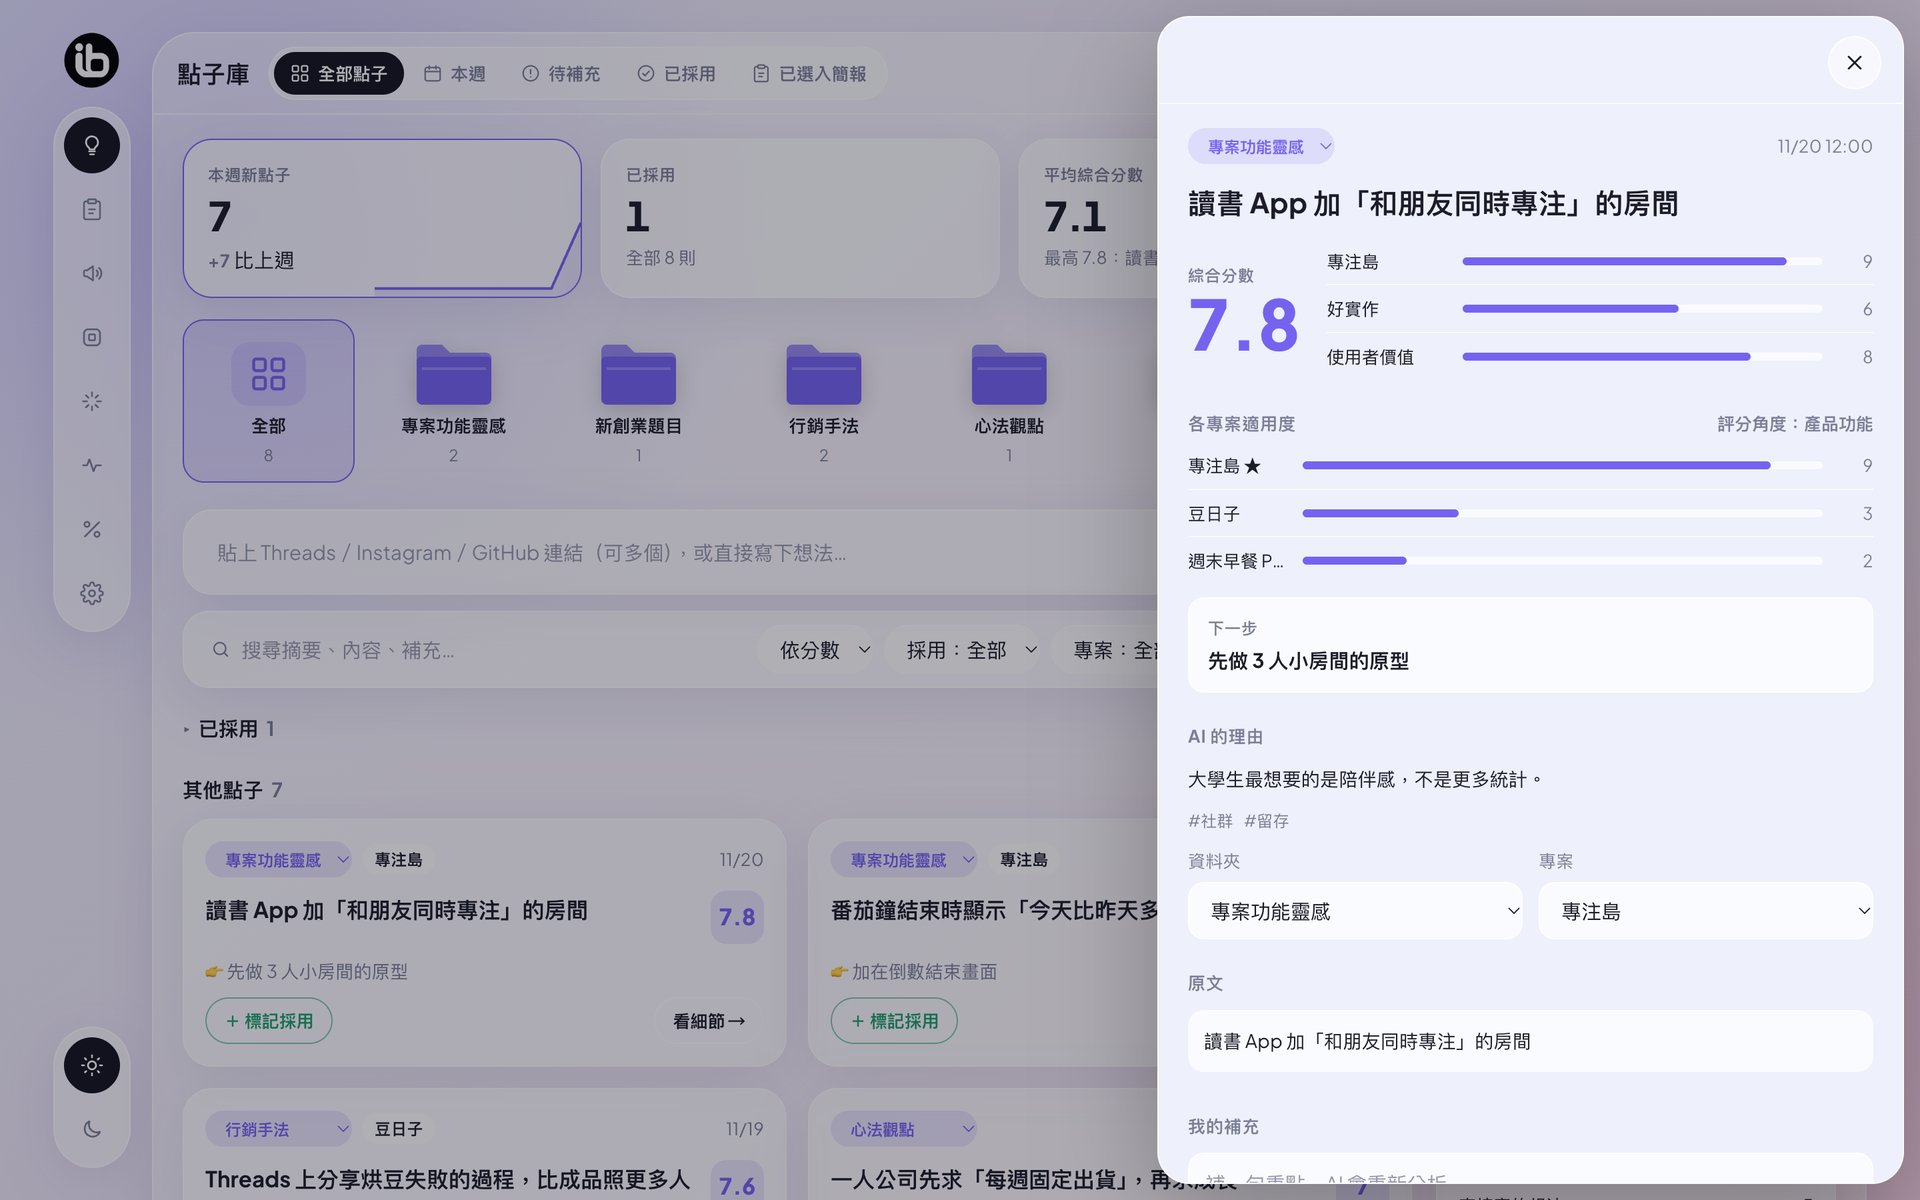
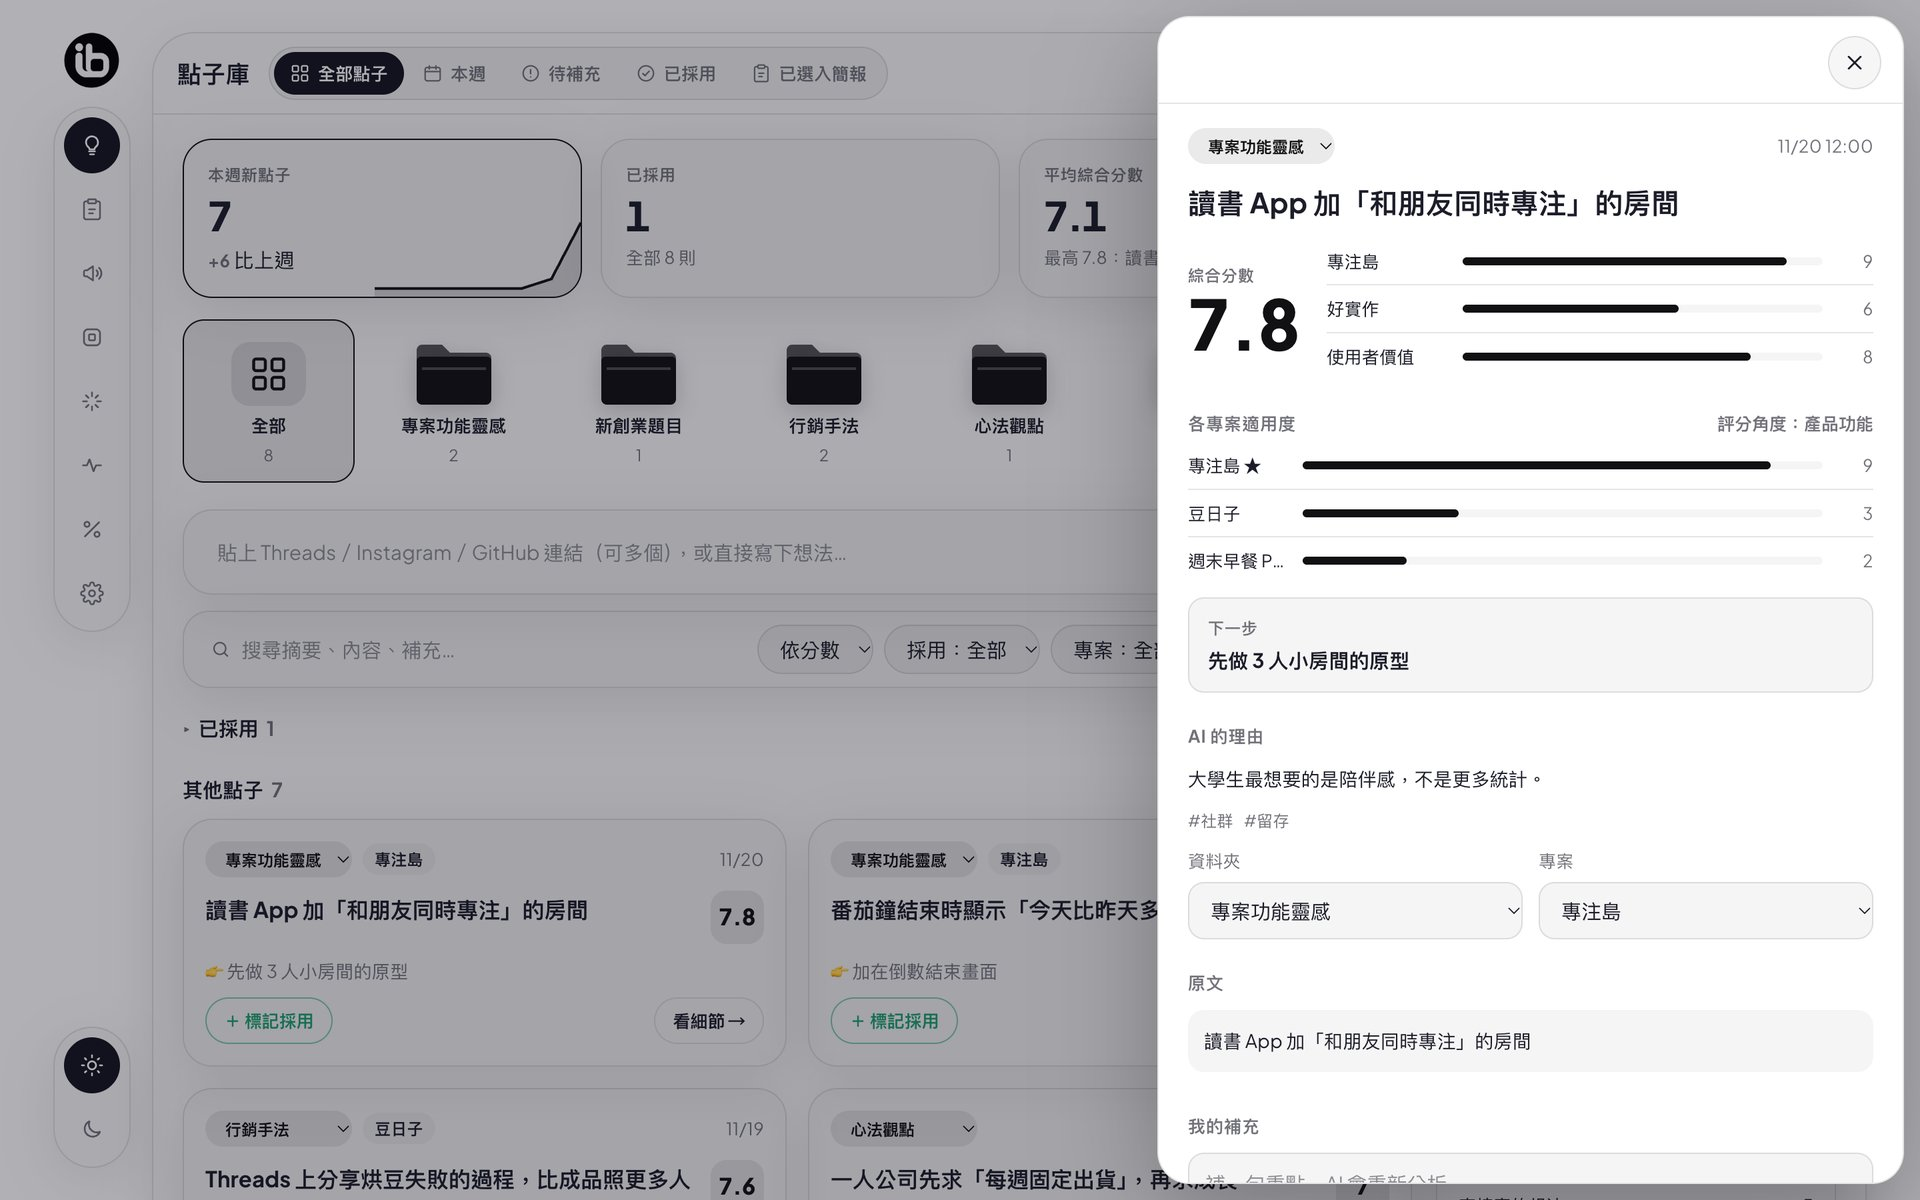
說明與 README 的截圖換成黑白主題、網站圖示改成白底黑字

diff --git a/README.md b/README.md
@@ -40,7 +40,7 @@
 其他：
 - **Telegram Bot**：存點子、回覆補充、改資料夾、指定專案；「專案」看總覽、「myapp 下一步 ＿＿」「myapp 里程碑 12/1 上架」「myapp 排程 11/20-11/25 封測」直接更新專案；「myapp 發文 11/21 20:00 IG Reel 主題」排一則貼文並請 AI 寫草稿
 - **Slack 進度回報**（選填）：每個專案一個頻道，讀到「【完成】【下一步】【階段】」格式的訊息就自動更新專案
-- **中英雙語**介面、四種主題（Fluento／Ember／Portal／黑白）× 淺色／深色
+- **中英雙語**介面、四種主題（黑白（預設）／Fluento／Ember／Portal）× 淺色／深色
 - **AI 自我學習**：從你採用、刪除、補充的點子學偏好，之後分析會參考
 - **手機 App**（`mobile/`）：今天的排程、月曆、專案、點子、辦公室，加推送通知
 

diff --git a/README.en.md b/README.en.md
@@ -38,7 +38,7 @@ Stack: Next.js 16 (App Router) + React 19 + Supabase + Vercel + Claude API + Tel
 Also:
 - **Telegram bot**: save ideas, reply to add notes, change folder or project; `專案` for an overview, `myapp 下一步 …` / `myapp 里程碑 12/1 …` / `myapp 排程 11/20-11/25 …` to update projects; `myapp 發文 11/21 20:00 IG Reel topic` to schedule a post with an AI draft
 - **Slack progress sync** (optional): one channel per project; messages in the `【完成】【下一步】【階段】` format update the project
-- Four themes (Fluento / Ember / Portal / Mono) × light / dark
+- Four themes (Mono by default, plus Fluento / Ember / Portal) × light / dark
 - **Self-learning**: learns your preferences from what you adopt, delete and annotate
 - **Mobile app** (`mobile/`): today, calendar, projects, ideas, office, push notifications
 

diff --git a/docs/使用說明.md b/docs/使用說明.md
@@ -29,7 +29,7 @@
 | AI 自我學習 | 從你採用、刪除、補充的點子學偏好 | `/settings?view=learn` |
 | Slack 進度回報 | 讀 Slack 頻道的進度訊息，自動更新專案 | 選填 |
 | 手機 App | 今天、月曆、專案、辦公室，加推送通知（唯讀） | `mobile/` |
-| 雙語、主題 | 中文／English；Fluento／Ember／Portal／黑白 × 淺色／深色 | 右上角頭像選單、設定 |
+| 雙語、主題 | 中文／English；黑白（預設）／Fluento／Ember／Portal × 淺色／深色 | 右上角頭像選單、設定 |
 
 ---
 
